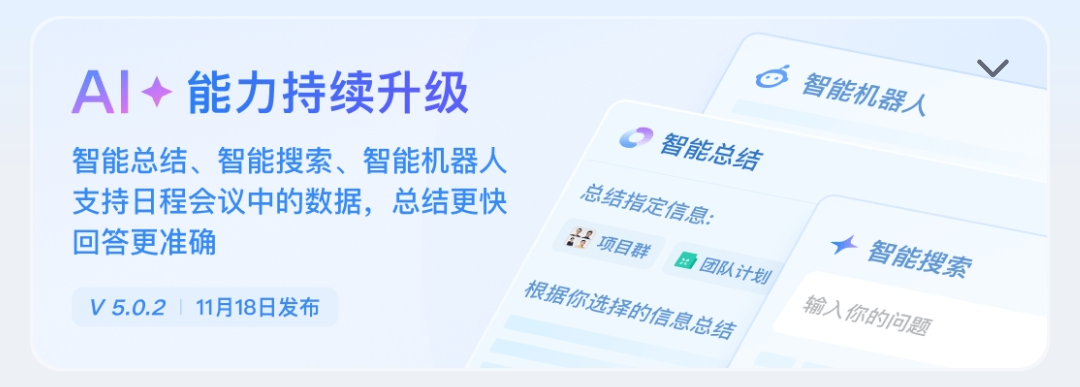
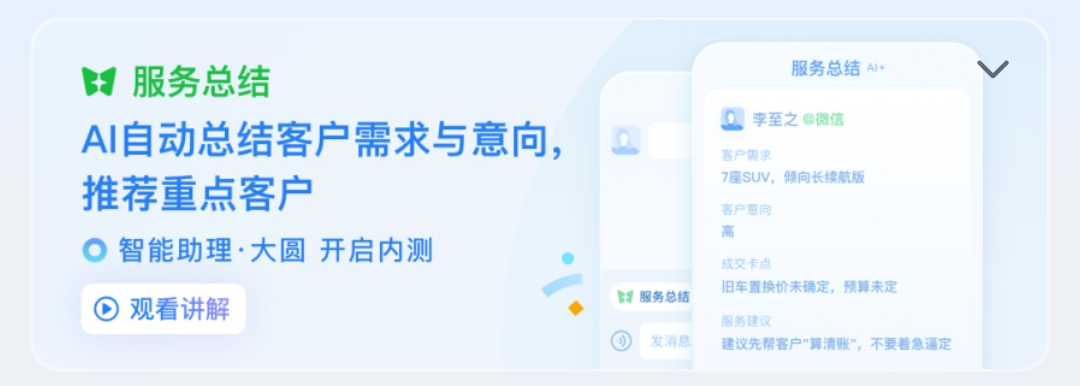
更新

diff --git a/pages/mine/mine.vue b/pages/mine/mine.vue
@@ -144,7 +144,7 @@ import {
   withdraw,
   getPayMember,
   getPayPoints,
-  queryPayStatus
+  confirmPayOrder
 } from '@/api/index.js'
 import VipRechargeDialog from '../../components/VipRechargeDialog/VipRechargeDialog.vue';
 import PointsRechargeDialog from '../../components/PointsRechargeDialog/PointsRechargeDialog.vue';
@@ -168,7 +168,6 @@ export default {
   onShow() {
     const userId = uni.getStorageSync('userId')
     this.getUserInfo(userId)
-    this.checkPendingPayOrder()
     if (uni.getStorageSync('openPointsRecharge')) {
       uni.removeStorageSync('openPointsRecharge')
       this.$nextTick(() => {
@@ -245,29 +244,25 @@ export default {
           return
         }
 
-        if (orderNo) {
-          uni.setStorageSync('pendingPayOrderNo', orderNo)
-        }
-
         uni.requestPayment({
           provider: 'alipay',
           orderInfo: orderStr,
-          success: () => {
-            if (orderNo) {
-              this.checkPayResult(orderNo, onSuccessClose)
-            } else {
-              uni.showToast({ title: '支付成功', icon: 'none' })
-              this.getUserInfo(this.userInfo.id)
+          success: async () => {
+            try {
+              if (orderNo) {
+                await confirmPayOrder(orderNo)
+              }
+              await this.getUserInfo(this.userInfo.id)
+              uni.showToast({ title: '支付成功', icon: 'success' })
               onSuccessClose()
+            } catch (err) {
+              console.error('确认充值失败', err)
+              uni.showToast({ title: '充值确认失败', icon: 'none' })
             }
           },
           fail: (err) => {
-            console.log('支付回调失败，尝试查单确认', err)
-            if (orderNo) {
-              this.checkPayResult(orderNo, onSuccessClose)
-            } else {
-              uni.showToast({ title: '支付失败', icon: 'none' })
-            }
+            console.log('支付失败', err)
+            uni.showToast({ title: '支付失败', icon: 'none' })
           }
         })
       } catch (err) {
@@ -276,54 +271,6 @@ export default {
       }
     },
 
-    sleep(ms) {
-      return new Promise(resolve => setTimeout(resolve, ms))
-    },
-
-    async checkPayResult(orderNo, onSuccessClose = () => this.Recharge()) {
-      uni.showLoading({ title: '确认支付结果...' })
-      try {
-        for (let i = 0; i < 5; i++) {
-          const res = await queryPayStatus(orderNo)
-          const status = res?.data?.status
-          if (status === 'PAID') {
-            uni.hideLoading()
-            uni.removeStorageSync('pendingPayOrderNo')
-            uni.showToast({ title: '支付成功' })
-            this.getUserInfo(this.userInfo.id)
-            onSuccessClose()
-            return
-          }
-          if (i < 4) {
-            await this.sleep(2000)
-          }
-        }
-        uni.hideLoading()
-        uni.showToast({ title: '支付结果确认中，请稍后刷新', icon: 'none' })
-      } catch (err) {
-        uni.hideLoading()
-        console.error('查询支付状态失败', err)
-        uni.showToast({ title: '支付结果确认中，请稍后刷新', icon: 'none' })
-      }
-    },
-
-    async checkPendingPayOrder() {
-      const orderNo = uni.getStorageSync('pendingPayOrderNo')
-      if (!orderNo) return
-      try {
-        const res = await queryPayStatus(orderNo)
-        if (res?.data?.status === 'PAID') {
-          uni.removeStorageSync('pendingPayOrderNo')
-          const userId = uni.getStorageSync('userId')
-          if (userId) {
-            this.getUserInfo(userId)
-          }
-        }
-      } catch (err) {
-        console.error('补查支付订单失败', err)
-      }
-    },
-    
     _isMemberExpired(at) {
       return isMemberExpired(at)
     },

diff --git a/pages/chat/chat.vue b/pages/chat/chat.vue
@@ -1,4 +1,4 @@
-<template>
+<template>
 
 	<view class="chat-page" :style="{ '--global-font-size': currentFontSize + 'px', '--font-scale': Number(scale) || 1 }">
 		<!-- 全局水印层 -->
@@ -12,7 +12,7 @@
 				<view class="nikeName" :style="{ fontSize: rpx(34),fontWeight:'500' }">
 					{{guestInfo.name || "企业微信工坊"}}
 				</view>
-				<view class="desc" :style="{ fontSize: rpx(24),color: '#4bc768' }">{{guestInfo.description}}</view>
+				<view class="desc" :style="{ fontSize: rpx(24),color: '#4bc768' }" >@微信</view>
 			</view>
 			<view class="icons">
 				<image @click="addVideo" class="nav-icon_phone" mode="widthFix" src="/static/icon-phone.png"></image>
@@ -878,6 +878,7 @@
 						<view class="calltype-item" @click="onSelectTipsType('revoke_other')">对方撤回提示</view>
 						<view class="calltype-item" @click="onSelectTipsType('revoke_self')">我方撤回提示</view>
 						<view class="calltype-item" @click="onSelectTipsType('add_contact')">添加好友提示</view>
+						<view class="calltype-item" @click="onSelectTipsType('greeting')">打招呼内容提示</view>
 						<view class="calltype-cancel" @click="closeTipsTypePopup">取消</view>
 					</view>
 				</uni-popup>
@@ -2734,7 +2735,10 @@
 					return content.text || '你撤回了一条消息';
 				}
 				if (tipType === 'add_contact') {
-					return `你已添加了${content.friendName || '好友'}，现在可以开始聊天了`;
+					return `你已添加了${content.friendName || '好友'}，现在可以开始聊天了。`;
+				}
+				if (tipType === 'greeting') {
+					return content.text || '以上是打招呼内容';
 				}
 				return `你收到了${content.gusetName || ''}的付款`;
 			},
@@ -2748,6 +2752,9 @@
 					return '';
 				}
 				if (tipType === 'add_contact') {
+					return '';
+				}
+				if (tipType === 'greeting') {
 					return '';
 				}
 				return '查看';
@@ -2800,6 +2807,11 @@
 					content = {
 						tipType: 'add_contact',
 						text: `你已添加了${this.guestInfo.name || '对方'}，现在可以开始聊天了`
+					};
+				} else if (type === 'greeting') {
+					content = {
+						tipType: 'greeting',
+						text: '以上是打招呼内容'
 					};
 				}
 				if (!content) return;

diff --git a/api/index.js b/api/index.js
@@ -23,6 +23,7 @@ export const deductPoints = (userId, points = 20, reason = 'ai_conversation') =>
     method: 'POST'
   })
 export const queryPayStatus = (orderNo) => request({ url: `/user/pay/status/${orderNo}`, method: 'GET' })
+export const confirmPayOrder = (orderNo) => request({ url: `/user/pay/confirm/${orderNo}`, method: 'POST' })
 export const logout = (userId) => request({ url: '/user/logout/'+userId, method: 'POST' })
 export const activateMember = (userId,time) => request({ url: '/user/activate-member/'+userId+"/"+time, method: 'POST' })
 export const selectInfoFormPhone = (phone) => request({ url: '/user/phone/'+phone, method: 'GET' })

diff --git a/utils/request.js b/utils/request.js
@@ -4,12 +4,12 @@
 // 简章
  // export const REMOTE_API = 'http://106.15.137.235:9090/api'; 
 //姐姐
-export const REMOTE_API = 'http://106.15.137.235:9092/api';
+// export const REMOTE_API = 'http://106.15.137.235:9092/api';
 // 军哥
 // export  const REMOTE_API = 'http://106.15.137.235:9093/api';
-// export  const REMOTE_API = 'http://106.15.137.235:8080/api';
+export  const REMOTE_API = 'http://106.15.137.235:8080/api';
 const H5_PROXY = '/pawlapi';
-const H5_LOCAL_API = 'http://localhost:9092/api';
+const H5_LOCAL_API = 'http://localhost:8080/api';
 // 请求超时：5 分钟（毫秒）
 export const REQUEST_TIMEOUT = 5 * 60 * 1000;
 

diff --git a/pages/Workbench/Workbench.vue b/pages/Workbench/Workbench.vue
@@ -16,6 +16,7 @@
 				<image src="/static/conelse/a2.png" mode="widthFix"></image>
 			</view>
 			<image src="/static/conelse/a3.png" mode="widthFix"></image>
+			<image src="/static/conelse/a3.1.png" mode="widthFix"></image>
 			<image src="/static/conelse/a4.png" mode="widthFix"></image>
 			<image src="/static/conelse/a5.png" mode="widthFix"></image>
 			<image src="/static/conelse/a6.png" mode="widthFix"></image>
@@ -87,7 +88,7 @@
 					t1: '1',
 					t2: '0',
 					t3: '0.00',
-					fontWeight: 600,
+					fontWeight: 500,
 					fontSize: 48
 				},
 				workbenchLabels: {

diff --git a/pages/chatList/chatList.vue b/pages/chatList/chatList.vue
@@ -58,7 +58,7 @@
 								<view class="msg_box">
 									<view class="msg_top">
 										<view class="msg_title">{{item.name}} <text
-												class="title_desc">{{item.description}}</text></view>
+												class="title_desc">@微信</text></view>
 										<view class="msg_time">{{item.createdAt}}</view>
 									</view>
 									<view class="msg_desc">
